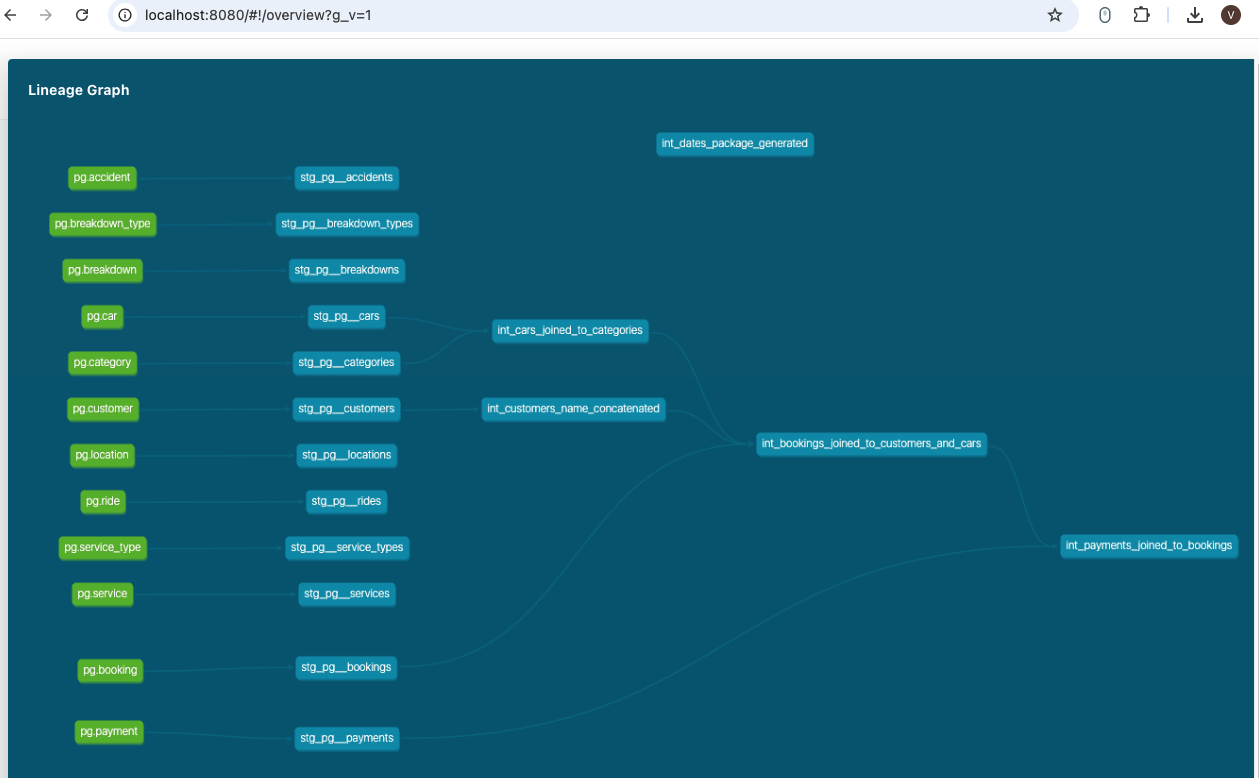
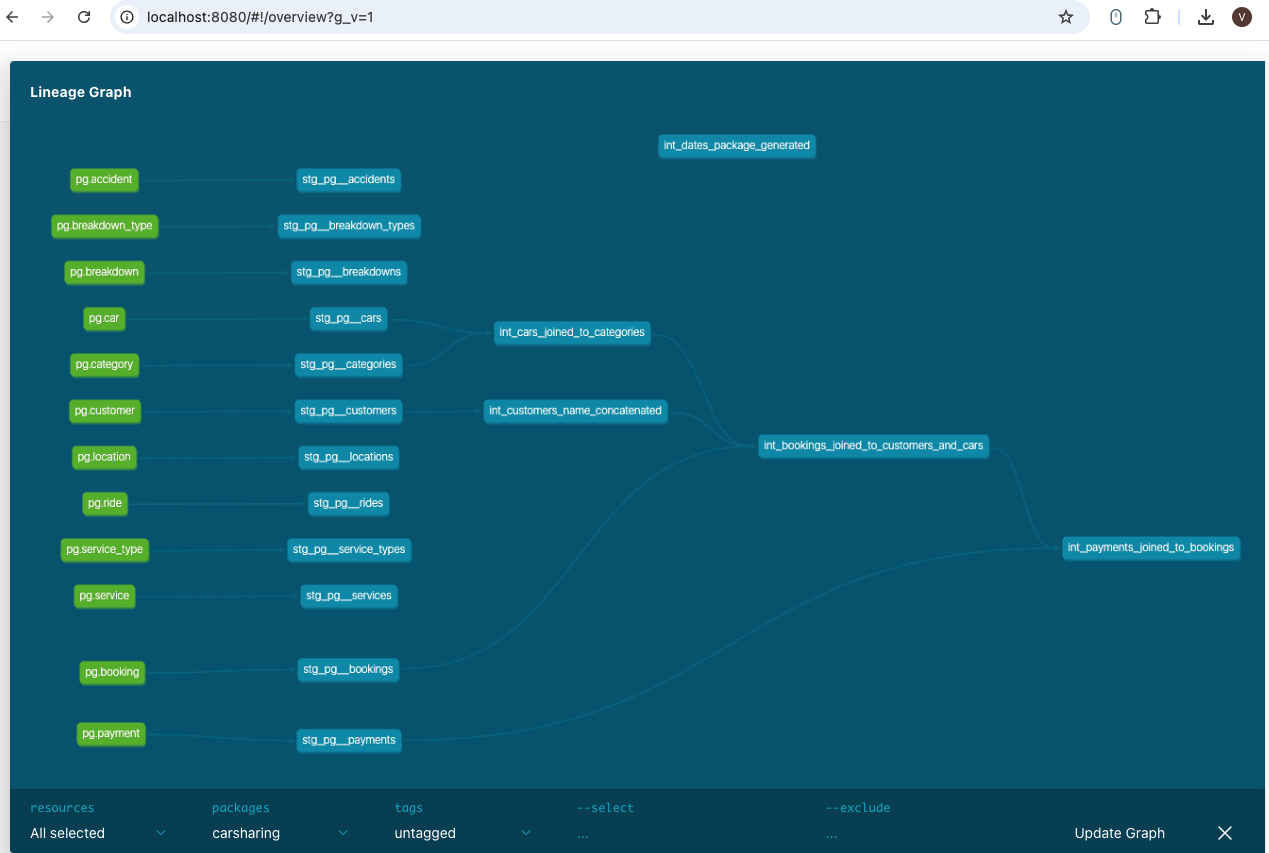
Update 4 files
- sozdanie-modeley-pervichnogo-sloya-staging.md
 - sozdanie-modeley-promezhutochnogo-sloya-intermed.md
   - sozdanie-modeley-promezhutochnogo-sloya-intermed-14.png
   - sozdanie-modeley-promezhutochnogo-sloya-intermed-15.png

diff --git a/sozdanie-modeley-promezhutochnogo-sloya-intermed.md b/sozdanie-modeley-promezhutochnogo-sloya-intermed.md
@@ -414,9 +414,9 @@ dbt docs generate
 
 <image src="./sozdanie-modeley-promezhutochnogo-sloya-intermed-11.png" title="Рисунок №. Результат выполнения команды по созданию документации" crop="0,0,100,100" objects="square,9.9343,66.8845,29.5567,5.3377,,top-left&square,10.0985,81.4815,29.3924,4.793,,top-left" width="1218px" height="918px"/>
 
-Но на этом еще не всё. «Из коробки» dbt позволяет сформировать документацию в виде локального статического сайта (запуск того самого `index.html`) по адресу <http://localhost:8080>. 
+Но на этом еще не всё. «Из коробки» dbt позволяет сформировать документацию в виде локального статического сайта (запуск того самого `index.html`) по адресу <http://localhost:8080>.
 
-Для этого выполните команду следующую команду: 
+Для этого выполните команду следующую команду:
 
 ```bash
 dbt docs serve
@@ -430,4 +430,54 @@ dbt docs serve
 
 <image src="./sozdanie-modeley-promezhutochnogo-sloya-intermed-13.png" title="Рисунок №. Статический сайт с документацией к проекту" crop="0,0,100,100" objects="square,88.8889,86.4507,9.6521,11.6348,,top-left" width="891px" height="679px"/>
 
-![](./sozdanie-modeley-promezhutochnogo-sloya-intermed-14.png "Рисунок №. Зависимость моделей проекта"){width=1259px height=778px}
+![](./sozdanie-modeley-promezhutochnogo-sloya-intermed-14.png "Рисунок №. Зависимость моделей проекта"){width=1269px height=853px}
+
+Перед вами текущее состояние всего проекта. На графе вы видите какие модели (вершины графа) сейчас используются и как они связаны между собой (ребра графа).
+
+Для визуального удобства модели различных типов имеют соответствующую заливку. Например, на данном рисунке таблицы системы-источника окрашены в ярко-зеленый (или салатовый) цвет.
+
+<note type="lab" title="Примечание">
+
+dbt предоставляет возможность настройки пользовательской заливки.
+
+Эти настройки будут рассмотрены в отдельной главе.
+
+</note>
+
+Вы можете также проанализировать потоки данных (входящие и/или исходящие) для какой-то конкретной модели. Выполняется это в ячейке `-- select`.
+
+Введите в `-- select` следующий текст `+int_cars_joined_to_categories+` и нажмите **Update Graph**. Плюс слева отобразит входящий поток в выбранную модель, а плюс справа – исходящий.
+
+<image src="./sozdanie-modeley-promezhutochnogo-sloya-intermed-15.png" title="Рисунок №. Анализ потока для конкретной модели" crop="0,0,100,100" objects="square,32.7545,50.3538,15.075,7.1934,,top-left" width="1267px" height="848px"/>
+
+Таким образом, вы можете отслеживать связи между моделями проекта. На этом пока остановите знакомство с функциональностью документации и вернитесь к этому позднее.
+
+Для отключения доступа к статическому сайту перейдите в терминал и нажмите `Ctrl+C`.
+
+Пока же сохраните текущее состояние проекта.
+
+## Сохранение проекта в Github
+
+Загрузите текущее состояние вашего dbt-проекта в git-репозиторий.
+
+Добавьте все файлы проекта:
+
+```bash
+git add .
+```
+
+Добавьте сообщение для коммита:
+
+```bash
+git commit -m "intermediate-models"
+```
+
+Отправьте локальный проект в репозиторий Github:
+
+```bash
+git push
+```
+
+Теперь актуальный код проекта хранится в Github-репозитории.
+
+

diff --git a/sozdanie-modeley-pervichnogo-sloya-staging.md b/sozdanie-modeley-pervichnogo-sloya-staging.md
@@ -208,4 +208,4 @@ git commit -m "staging-models"
 git push
 ```
 
-Теперь актуальный код проекта хранится в Github-репозитории и может использовать любым разработчиком, который имеет доступ к репозиторию.
+Теперь актуальный код проекта хранится в Github-репозитории и может использоваться любым разработчиком, который имеет доступ к этому репозиторию.
